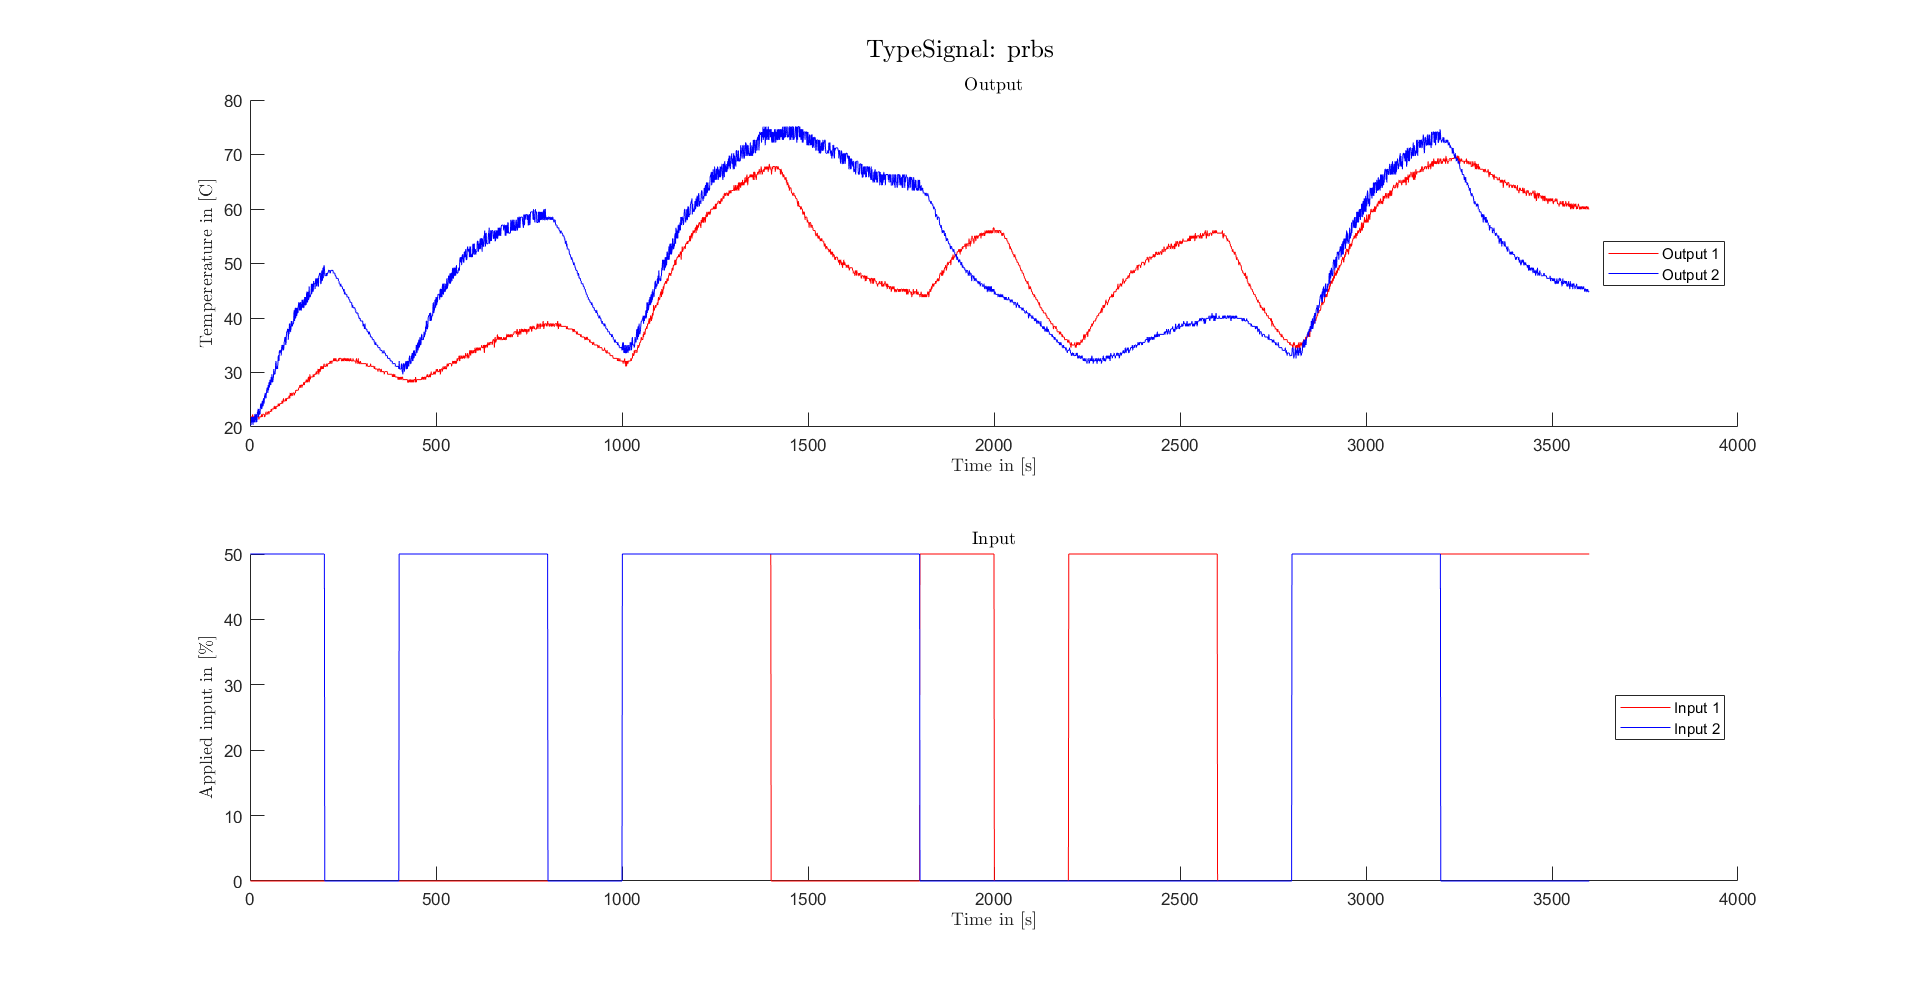
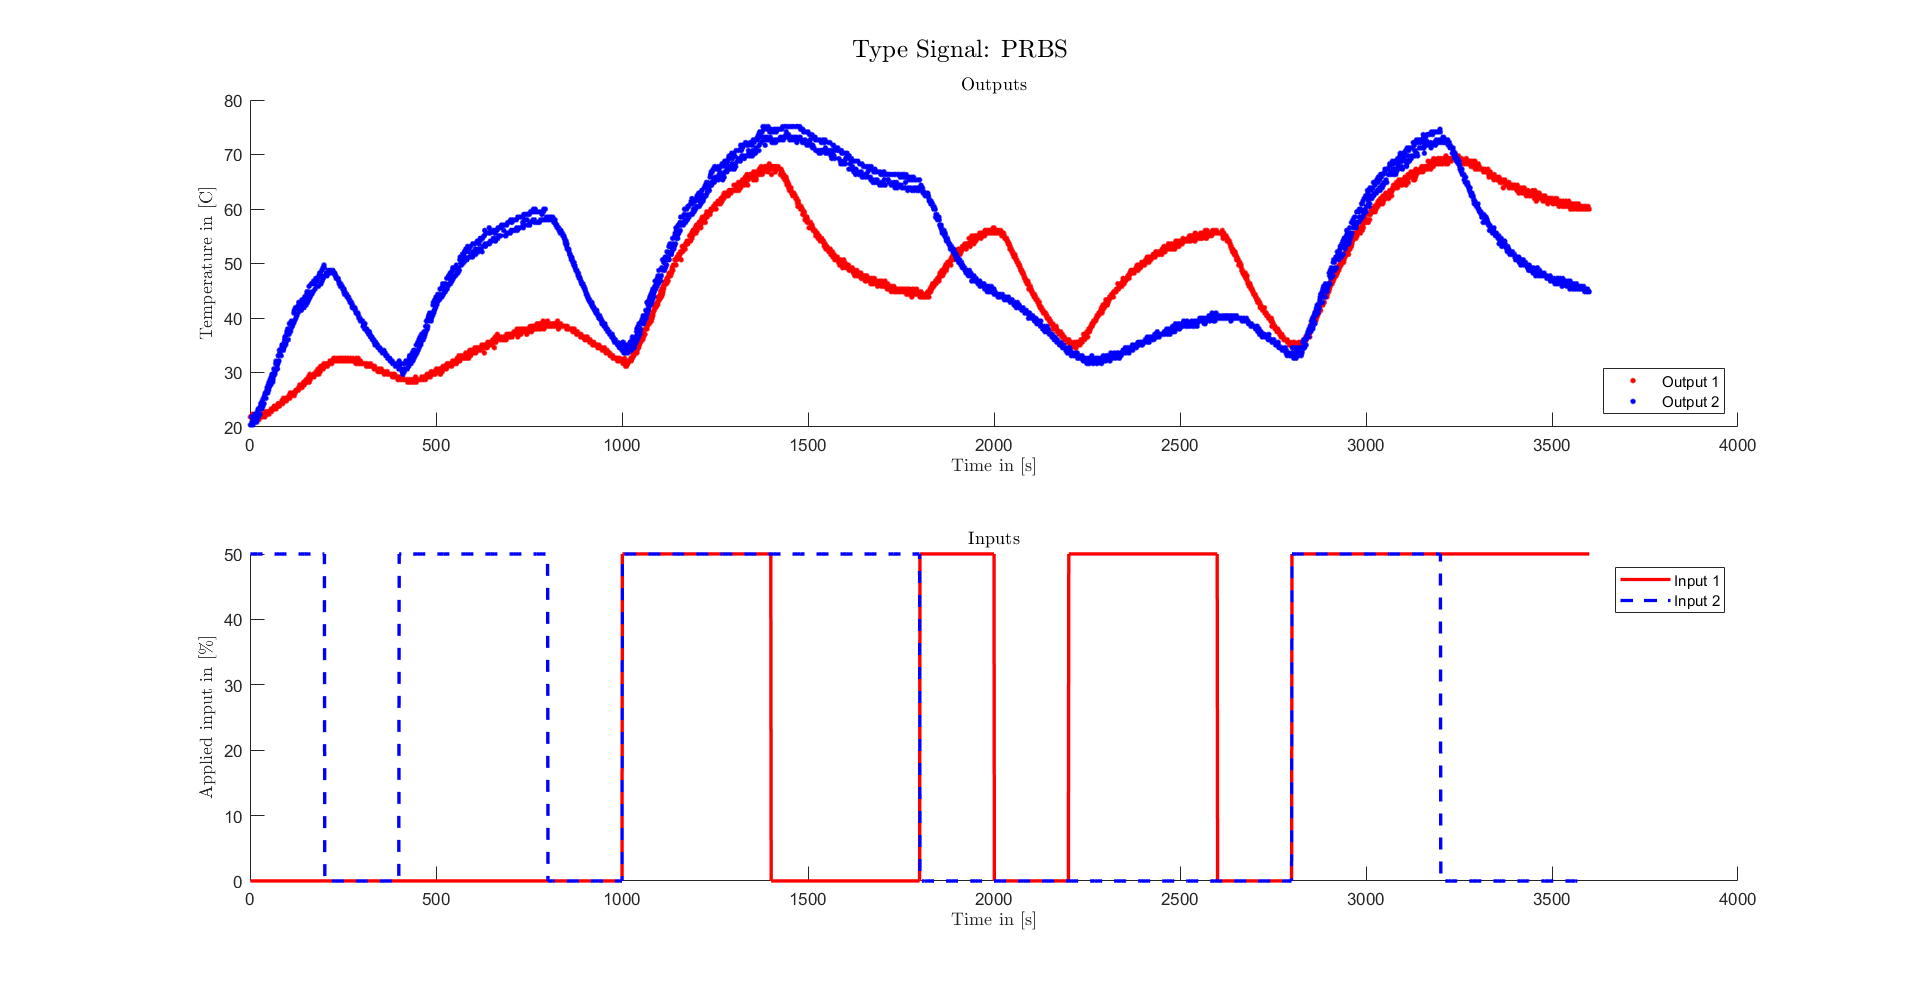
Added ShowTest and ShowExp to quickly make the correct plots.

diff --git a/Code/Experiments/ShowTest.m b/Code/Experiments/ShowTest.m
@@ -1,0 +1,30 @@
+%load a file. Then run this script to create plot:
+
+fig = figure(1);
+sgtitle('Type Controller: ' + string(upper(Test.TypeController)), 'Interpreter','latex');
+ax1 = subplot(2,1,1);
+ax2 = subplot(2,1,2);
+hold(ax1, 'on');
+hold(ax2, 'on');
+
+title(ax1,'Outputs','Interpreter','latex');
+plot(ax1,Test.idd.y(:,1),'r.','MarkerSize',10,'DisplayName','TCL output 1');
+plot(ax1,Test.idd.y(:,2),'b.','MarkerSize',10,'DisplayName','TCL output 2');
+if strcmp(Test.TypeController,'lqr')
+    plot(ax1,Test.idd.y(:,3),'r-','LineWidth',1,'DisplayName','Observer output 1');
+    plot(ax1,Test.idd.y(:,4),'b-','LineWidth',1,'DisplayName','Observer output 2');
+end    
+plot(ax1, Test.idd.u(:,3), 'm-','LineWidth',1,'DisplayName', 'Reference 1');
+plot(ax1, Test.idd.u(:,4), 'c-','LineWidth',1,'DisplayName', 'Reference 2');
+xlabel(ax1,'Time in [s]','Interpreter','latex');
+ylabel(ax1,'Tempererature in [C]','Interpreter','latex');
+legend(ax1,'Location','SouthEast');
+
+title(ax2,'Inputs','Interpreter','latex');
+plot(ax2, Test.idd.u(:,1), 'r-','LineWidth',2,'DisplayName', 'Input 1');
+plot(ax2, Test.idd.u(:,2), 'b-','LineWidth',2,'DisplayName', 'Input 2');
+xlabel(ax2,'Time in [s]','Interpreter','latex');
+ylabel(ax2,'Applied input in [\%]','Interpreter','latex');
+ylim(ax2, [0 100]);
+legend(ax2,'Location','NorthEast');
+

diff --git a/Code/Experiments/ExperimentRunner.m b/Code/Experiments/ExperimentRunner.m
@@ -119,21 +119,25 @@ if DoExperiment == 'y'
         % ---- Figure of results so far: ----
 
         clf %clear current window (for new update)
+        sgtitle('Type Signal: ' + string(upper(TypeSignal)),'Interpreter','latex');
        
         subplot(2,1,1)
+        title('Outputs','Interpreter','latex');
         plot(time(1:i),H1Output(1:i),'r.','MarkerSize',10);
         hold on
         plot(time(1:i),H2Output(1:i),'b.','MarkerSize',10);
-        ylabel('Temperature (degC)')
-        legend('Temperature 1','Temperature 2','Location','NorthWest')
+        ylabel('Temperature in [C]','Interpreter','latex');
+        xlabel('Time in [s]','Interpreter','latex');
+        legend('Output 1','Output 2','Location','SouthEast')
         
         subplot(2,1,2)
+        title('Inputs','Interpreter','latex');
         plot(time(1:i),H1Input(1:i),'r-','LineWidth',2);
         hold on
         plot(time(1:i),H2Input(1:i),'b--','LineWidth',2);
-        ylabel('Heater (0-5.5 V)')
-        xlabel('Time (sec)')
-        legend('Heater 1','Heater 2','Location','NorthWest')
+        ylabel('Applied input in [\%]','Interpreter','latex');
+        xlabel('Time in [s]','Interpreter','latex');
+        legend('Input 1','Input 2','Location','NorthEast')
         
         drawnow;
         t = toc;

diff --git a/Code/Experiments/ShowExp.m b/Code/Experiments/ShowExp.m
@@ -1,0 +1,23 @@
+%load a file. Then run this script to create plot:
+
+fig = figure(1);
+sgtitle('Type Signal: ' + string(upper(Experiment.TypeSignal)),'Interpreter','latex');
+ax1 = subplot(2,1,1);
+ax2 = subplot(2,1,2);
+hold(ax1, 'on');
+hold(ax2, 'on');
+
+title(ax1,'Outputs','Interpreter','latex');
+plot(ax1,Experiment.idd.y(:,1),'r.','MarkerSize',10,'DisplayName','Output 1');
+plot(ax1,Experiment.idd.y(:,2),'b.','MarkerSize',10,'DisplayName','Output 2');
+xlabel(ax1,'Time in [s]','Interpreter','latex');
+ylabel(ax1,'Temperature in [C]','Interpreter','latex');
+legend(ax1,'Location','SouthEast');
+
+title(ax2,'Inputs','Interpreter','latex');
+plot(ax2, Experiment.idd.u(:,1), 'r-','LineWidth',2,'DisplayName', 'Input 1');
+plot(ax2, Experiment.idd.u(:,2), 'b--','LineWidth',2,'DisplayName', 'Input 2');
+xlabel(ax2,'Time in [s]','Interpreter','latex');
+ylabel(ax2,'Applied input in [\%]','Interpreter','latex');
+%ylim(ax2, [0 100]);
+legend(ax2,'Location','NorthEast');
